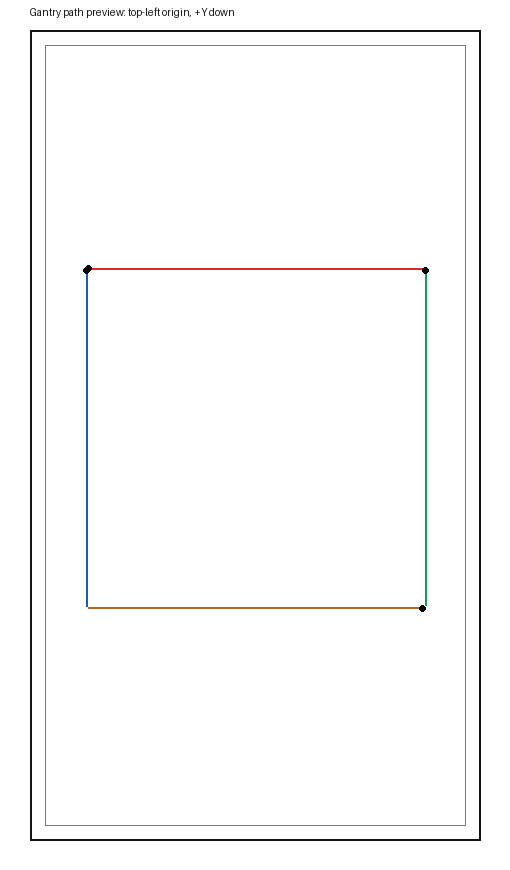
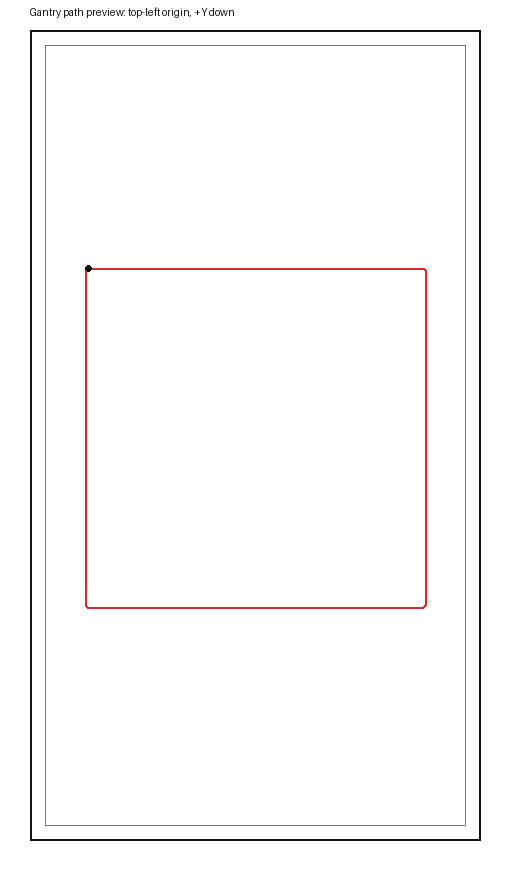
Join connected stroke graph paths

Changed region(s): [[0.8235, 0.3103, 0.8529, 0.7138], [0.1471, 0.3103, 0.1765, 0.7138]]

diff --git a/src/stroke_based_pipeline.py b/src/stroke_based_pipeline.py
@@ -508,6 +508,125 @@ def trace_graph_edges(skeleton: np.ndarray, label_map: np.ndarray, vertices: lis
     return edges
 
 
+def build_edge_adjacency(edges: list[dict], vertex_count: int) -> dict[int, list[int]]:
+    adjacency = {vertex_id: [] for vertex_id in range(vertex_count)}
+    for edge in edges:
+        start_vertex = edge.get("start_vertex")
+        end_vertex = edge.get("end_vertex")
+        if start_vertex is not None and start_vertex >= 0:
+            adjacency[int(start_vertex)].append(int(edge["id"]))
+        if end_vertex is not None and end_vertex >= 0 and end_vertex != start_vertex:
+            adjacency[int(end_vertex)].append(int(edge["id"]))
+    return adjacency
+
+
+def oriented_edge_path(edge: dict, from_vertex: int | None) -> tuple[np.ndarray, int | None]:
+    path = edge["path_px"]
+    start_vertex = edge.get("start_vertex")
+    end_vertex = edge.get("end_vertex")
+    if from_vertex is not None and end_vertex == from_vertex:
+        return path[::-1].copy(), start_vertex
+    return path.copy(), end_vertex
+
+
+def append_path_without_duplicate(base: list[list[float]], path: np.ndarray) -> None:
+    for point in path.tolist():
+        if base and np.allclose(np.array(base[-1]), np.array(point)):
+            continue
+        base.append(point)
+
+
+def assemble_continuous_strokes(edges: list[dict], vertices: list[dict]) -> list[np.ndarray]:
+    """
+    Merge traced graph edges into longer drawable trails.
+
+    Degree-2 vertices are treated as pass-through points, which joins corners
+    and tiny adjacent edge fragments into one ordered polyline. Vertices with
+    degree 1 or degree >= 3 remain natural stroke boundaries.
+    """
+    if not edges:
+        return []
+
+    adjacency = build_edge_adjacency(edges, len(vertices))
+    degrees = {vertex_id: len(edge_ids) for vertex_id, edge_ids in adjacency.items()}
+    used_edges: set[int] = set()
+    strokes: list[np.ndarray] = []
+
+    def walk_from(start_vertex: int, first_edge_id: int) -> np.ndarray:
+        points: list[list[float]] = []
+        current_vertex: int | None = start_vertex
+        edge_id = first_edge_id
+
+        while True:
+            used_edges.add(edge_id)
+            path, next_vertex = oriented_edge_path(edges[edge_id], current_vertex)
+            append_path_without_duplicate(points, path)
+
+            if next_vertex is None:
+                break
+            if degrees.get(next_vertex, 0) != 2:
+                break
+
+            candidates = [candidate for candidate in adjacency[next_vertex] if candidate not in used_edges]
+            if not candidates:
+                break
+            current_vertex = next_vertex
+            edge_id = candidates[0]
+
+        return np.array(points, dtype=np.float64)
+
+    boundary_vertices = [
+        vertex_id for vertex_id, degree in degrees.items()
+        if degree != 2 and degree > 0
+    ]
+    for vertex_id in boundary_vertices:
+        for edge_id in adjacency[vertex_id]:
+            if edge_id not in used_edges:
+                stroke = walk_from(vertex_id, edge_id)
+                if len(stroke) >= 2:
+                    strokes.append(stroke)
+
+    # Remaining unused edges are closed loops or all-degree-2 components.
+    for edge in edges:
+        edge_id = int(edge["id"])
+        if edge_id in used_edges:
+            continue
+        start_vertex = edge.get("start_vertex")
+        if start_vertex is None:
+            path = edge["path_px"]
+            used_edges.add(edge_id)
+            if len(path) >= 2:
+                strokes.append(path.copy())
+            continue
+
+        points: list[list[float]] = []
+        current_vertex = int(start_vertex)
+        current_edge_id = edge_id
+        while current_edge_id not in used_edges:
+            used_edges.add(current_edge_id)
+            path, next_vertex = oriented_edge_path(edges[current_edge_id], current_vertex)
+            append_path_without_duplicate(points, path)
+            if next_vertex is None:
+                break
+            current_vertex = int(next_vertex)
+            candidates = [
+                candidate for candidate in adjacency[current_vertex]
+                if candidate not in used_edges
+            ]
+            if not candidates:
+                break
+            current_edge_id = candidates[0]
+
+        if len(points) >= 2:
+            first = np.array(points[0])
+            last = np.array(points[-1])
+            if np.linalg.norm(first - last) <= 2.0:
+                points[-1] = points[0]
+            strokes.append(np.array(points, dtype=np.float64))
+
+    return strokes
+
+
 def path_to_xy_array(path: list[Pixel]) -> np.ndarray:
     return np.array([[x, y] for y, x in path], dtype=np.float64)
 
@@ -530,7 +649,12 @@ def build_stroke_graph(line_mask: np.ndarray, node_hint_mask: np.ndarray | None 
 
     vertices, label_map = cluster_vertices(node_mask, skeleton, radius=1)
     edges = trace_graph_edges(skeleton, label_map, vertices)
-    strokes = [simplify_polyline(edge["path_px"], epsilon=0.75) for edge in edges if len(edge["path_px"]) >= 2]
+    continuous_strokes = assemble_continuous_strokes(edges, vertices)
+    strokes = [
+        simplify_polyline(stroke, epsilon=0.75)
+        for stroke in continuous_strokes
+        if len(stroke) >= 2
+    ]
 
     return StrokeGraph(
         vertices=vertices,
@@ -744,11 +868,24 @@ def compute_command_metrics(
     servo_sweep_ms = abs(firmware_constants["PEN_UP_ANGLE"] - firmware_constants["PEN_DOWN_ANGLE"]) * firmware_constants["SERVO_DELAY_MS"]
     pen_change_time_s = mode_changes * (firmware_constants["PEN_SETTLE_MS"] + servo_sweep_ms) / 1000.0
     total_time_s = (draw_time_s or 0.0) + (travel_time_s or 0.0) + pen_change_time_s
+    stroke_point_counts = [int(len(stroke)) for stroke in graph.strokes_px]
+    two_point_strokes = sum(1 for count in stroke_point_counts if count == 2)
+    two_point_fraction = two_point_strokes / len(stroke_point_counts) if stroke_point_counts else 0.0
+    warnings = []
+    if two_point_fraction > 0.5:
+        warnings.append(
+            "More than 50% of extracted strokes have only two points. "
+            "Stroke extraction may still be too fragmented."
+        )
 
     return {
         "schema": "stroke_pipeline_metrics_v1",
         "command_count": len(commands),
         "stroke_count": stroke_count,
+        "average_points_per_stroke": float(np.mean(stroke_point_counts)) if stroke_point_counts else 0.0,
+        "median_points_per_stroke": float(np.median(stroke_point_counts)) if stroke_point_counts else 0.0,
+        "two_point_stroke_count": two_point_strokes,
+        "two_point_stroke_fraction": two_point_fraction,
         "pen_down_drawing_distance_mm": draw_distance,
         "pen_up_travel_distance_mm": travel_distance,
         "total_movement_distance_mm": draw_distance + travel_distance,
@@ -763,9 +900,12 @@ def compute_command_metrics(
         "segmentation_mode_used": segmentation_mode_used,
         "model_path_used": model_path_used,
         "segmentation_notes": segmentation_notes,
+        "warnings": warnings,
         "graph": {
             "vertex_count": len(graph.vertices),
             "edge_count": len(graph.edges),
+            "assembled_stroke_count": len(graph.strokes_px),
+            "stroke_point_counts": stroke_point_counts,
             "skeleton_pixel_count": int(np.count_nonzero(graph.skeleton_mask)),
             "endpoint_count": int(np.count_nonzero(graph.endpoint_mask)),
             "junction_pixel_count": int(np.count_nonzero(graph.junction_mask)),
@@ -841,7 +981,18 @@ def save_graph_debug(gray: np.ndarray, graph: StrokeGraph, output_path: Path) ->
         if len(stroke) < 2:
             continue
         points = [(float(x), float(y)) for x, y in stroke]
-        draw.line(points, fill=colors[i % len(colors)], width=2)
+        is_fragment = len(stroke) == 2
+        stroke_color = (255, 80, 0, 235) if is_fragment else colors[i % len(colors)]
+        stroke_width = 4 if is_fragment else 2
+        draw.line(points, fill=stroke_color, width=stroke_width)
+        sx, sy = points[0]
+        ex, ey = points[-1]
+        draw.ellipse((sx - 4, sy - 4, sx + 4, sy + 4), fill=(0, 190, 70, 245), outline=(0, 0, 0, 245))
+        draw.ellipse((ex - 3, ey - 3, ex + 3, ey + 3), fill=(40, 90, 255, 235), outline=(0, 0, 0, 235))
+        if is_fragment:
+            mx = (sx + ex) / 2.0
+            my = (sy + ey) / 2.0
+            draw.text((mx + 3, my + 3), "2pt", fill=(255, 80, 0, 255))
     for vertex in graph.vertices:
         x = float(vertex["x_px"])
         y = float(vertex["y_px"])
@@ -993,8 +1144,13 @@ def run_pipeline(args: argparse.Namespace) -> dict:
     for note in segmentation.notes:
         print(f"- {note}")
     print(f"Strokes: {metrics['stroke_count']}")
+    print(f"Average points/stroke: {metrics['average_points_per_stroke']:.2f}")
+    print(f"Median points/stroke: {metrics['median_points_per_stroke']:.2f}")
+    print(f"2-point strokes: {metrics['two_point_stroke_count']}")
     print(f"Commands: {metrics['command_count']}")
     print(f"Bounds valid: {metrics['bounds_validation_passed']}")
+    for warning in metrics["warnings"]:
+        print(f"WARNING: {warning}")
     print(f"Estimated total plotting time: {metrics['estimated_total_plotting_time_s']:.2f} s")
     return metrics
 
